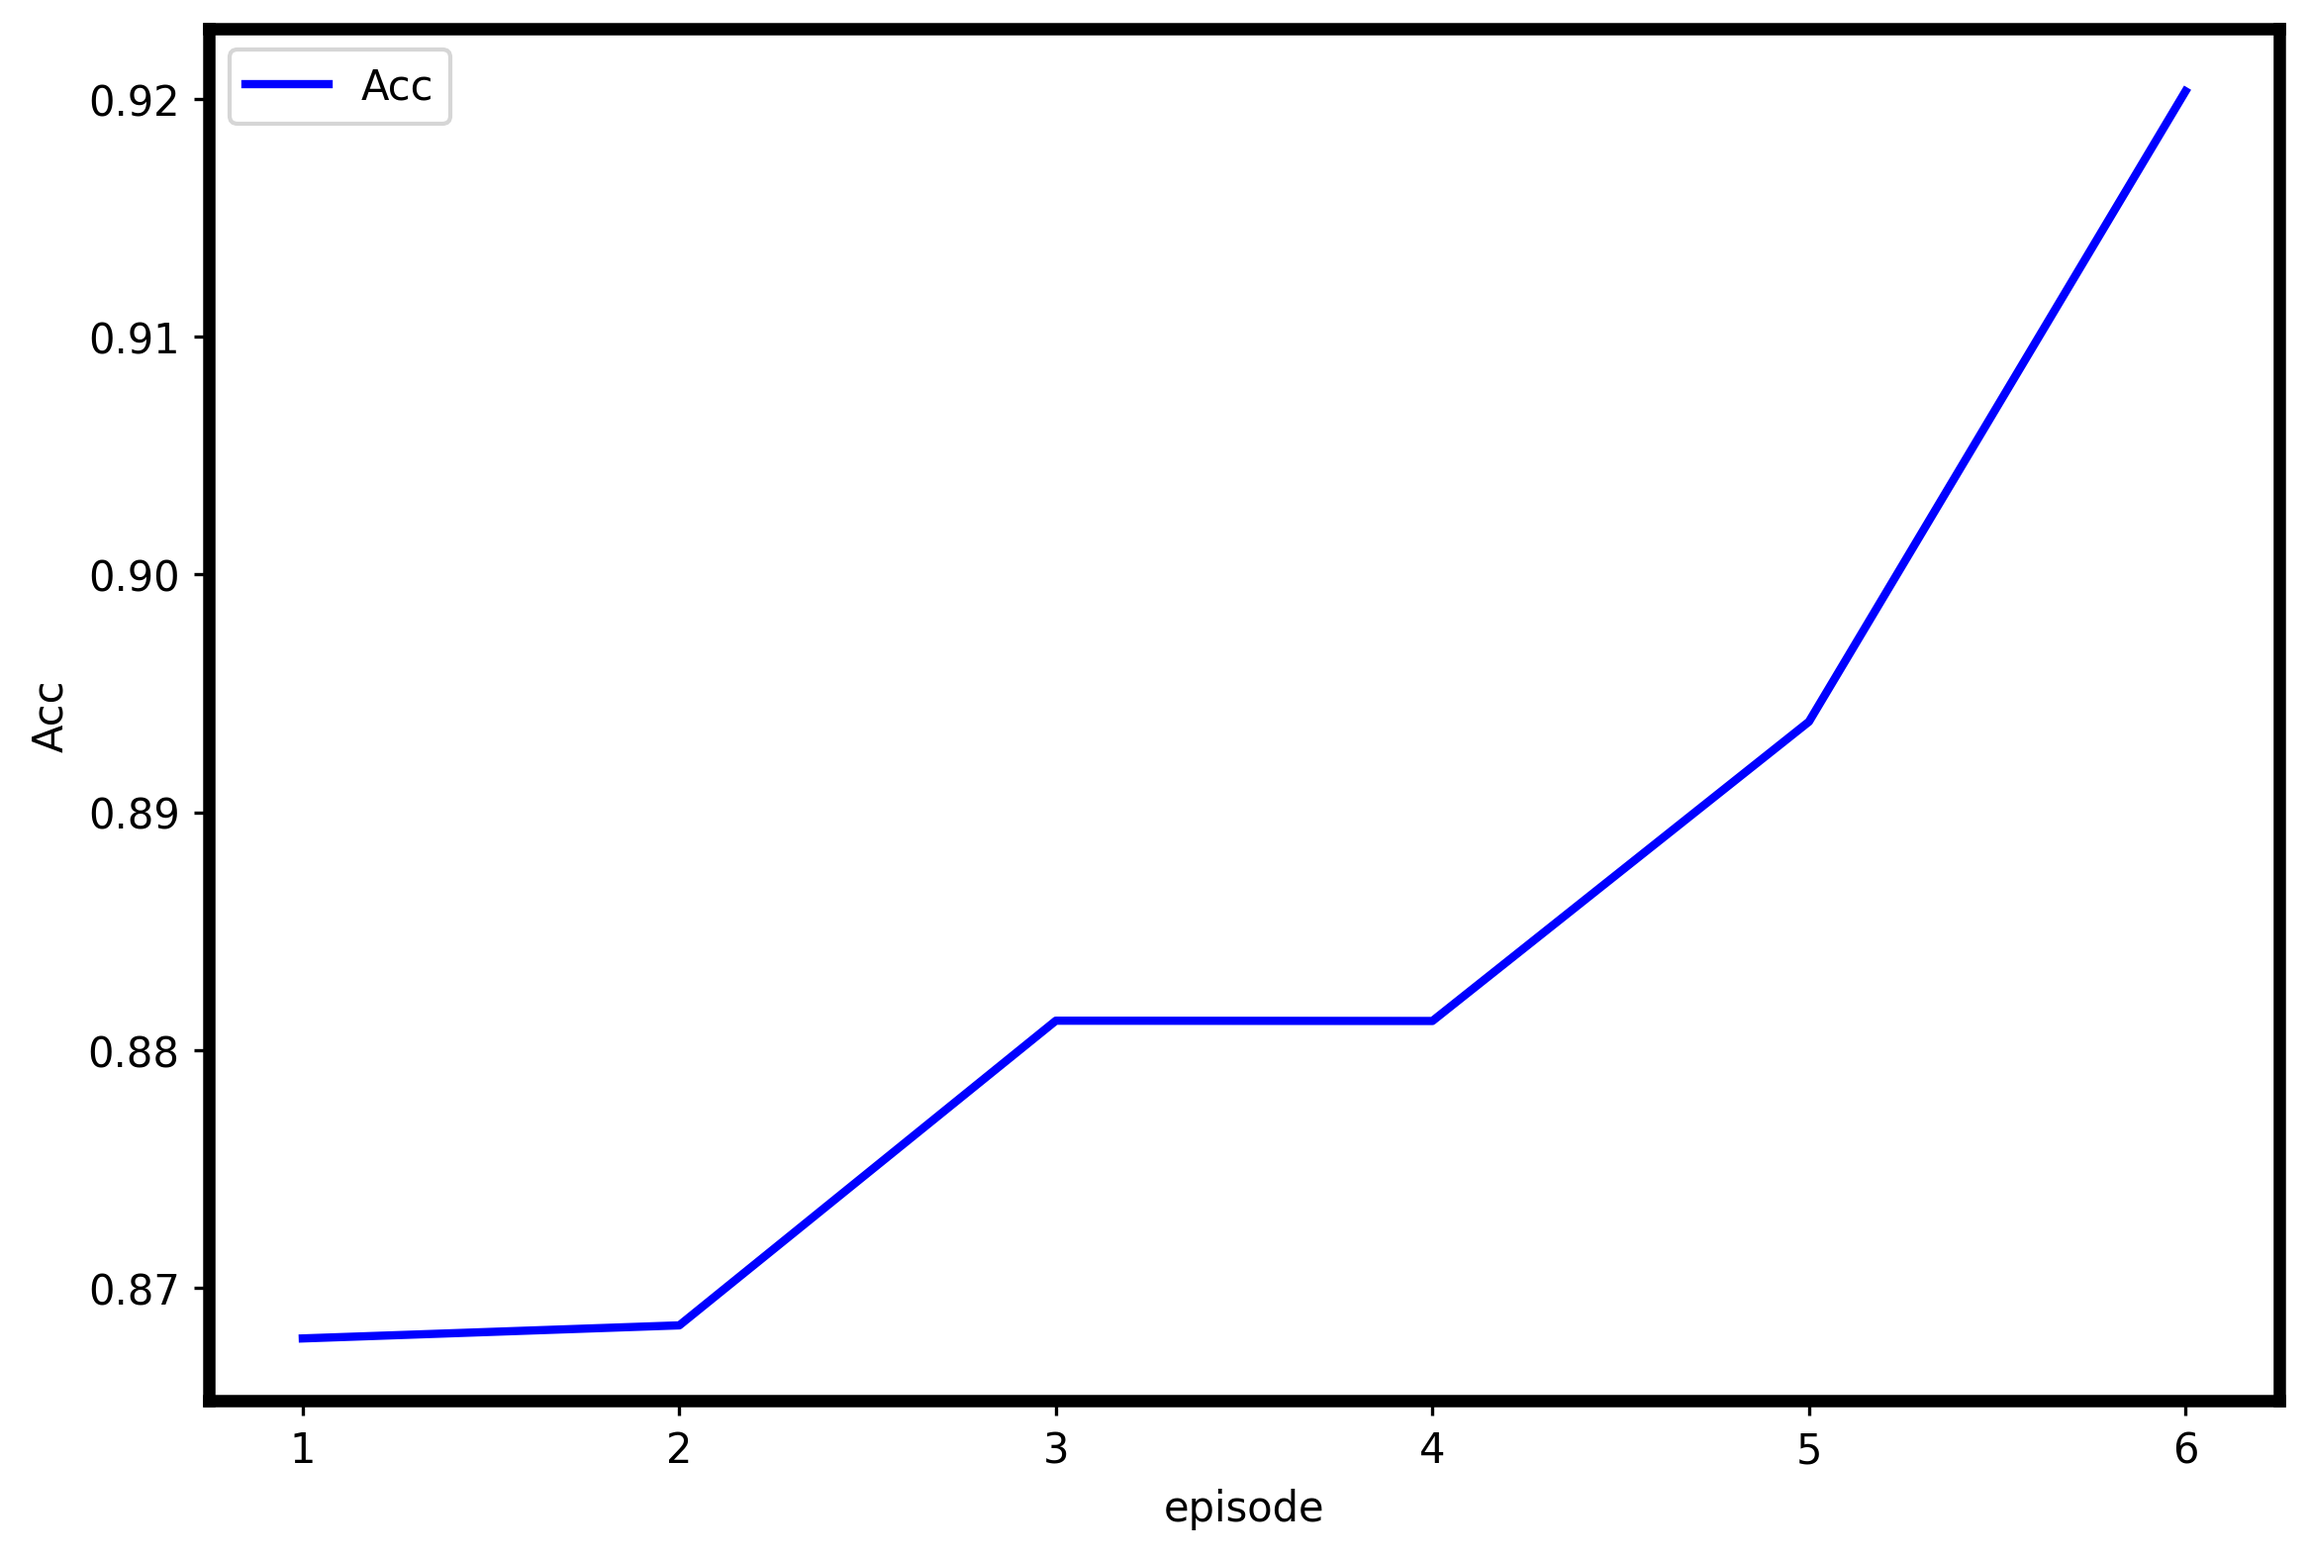
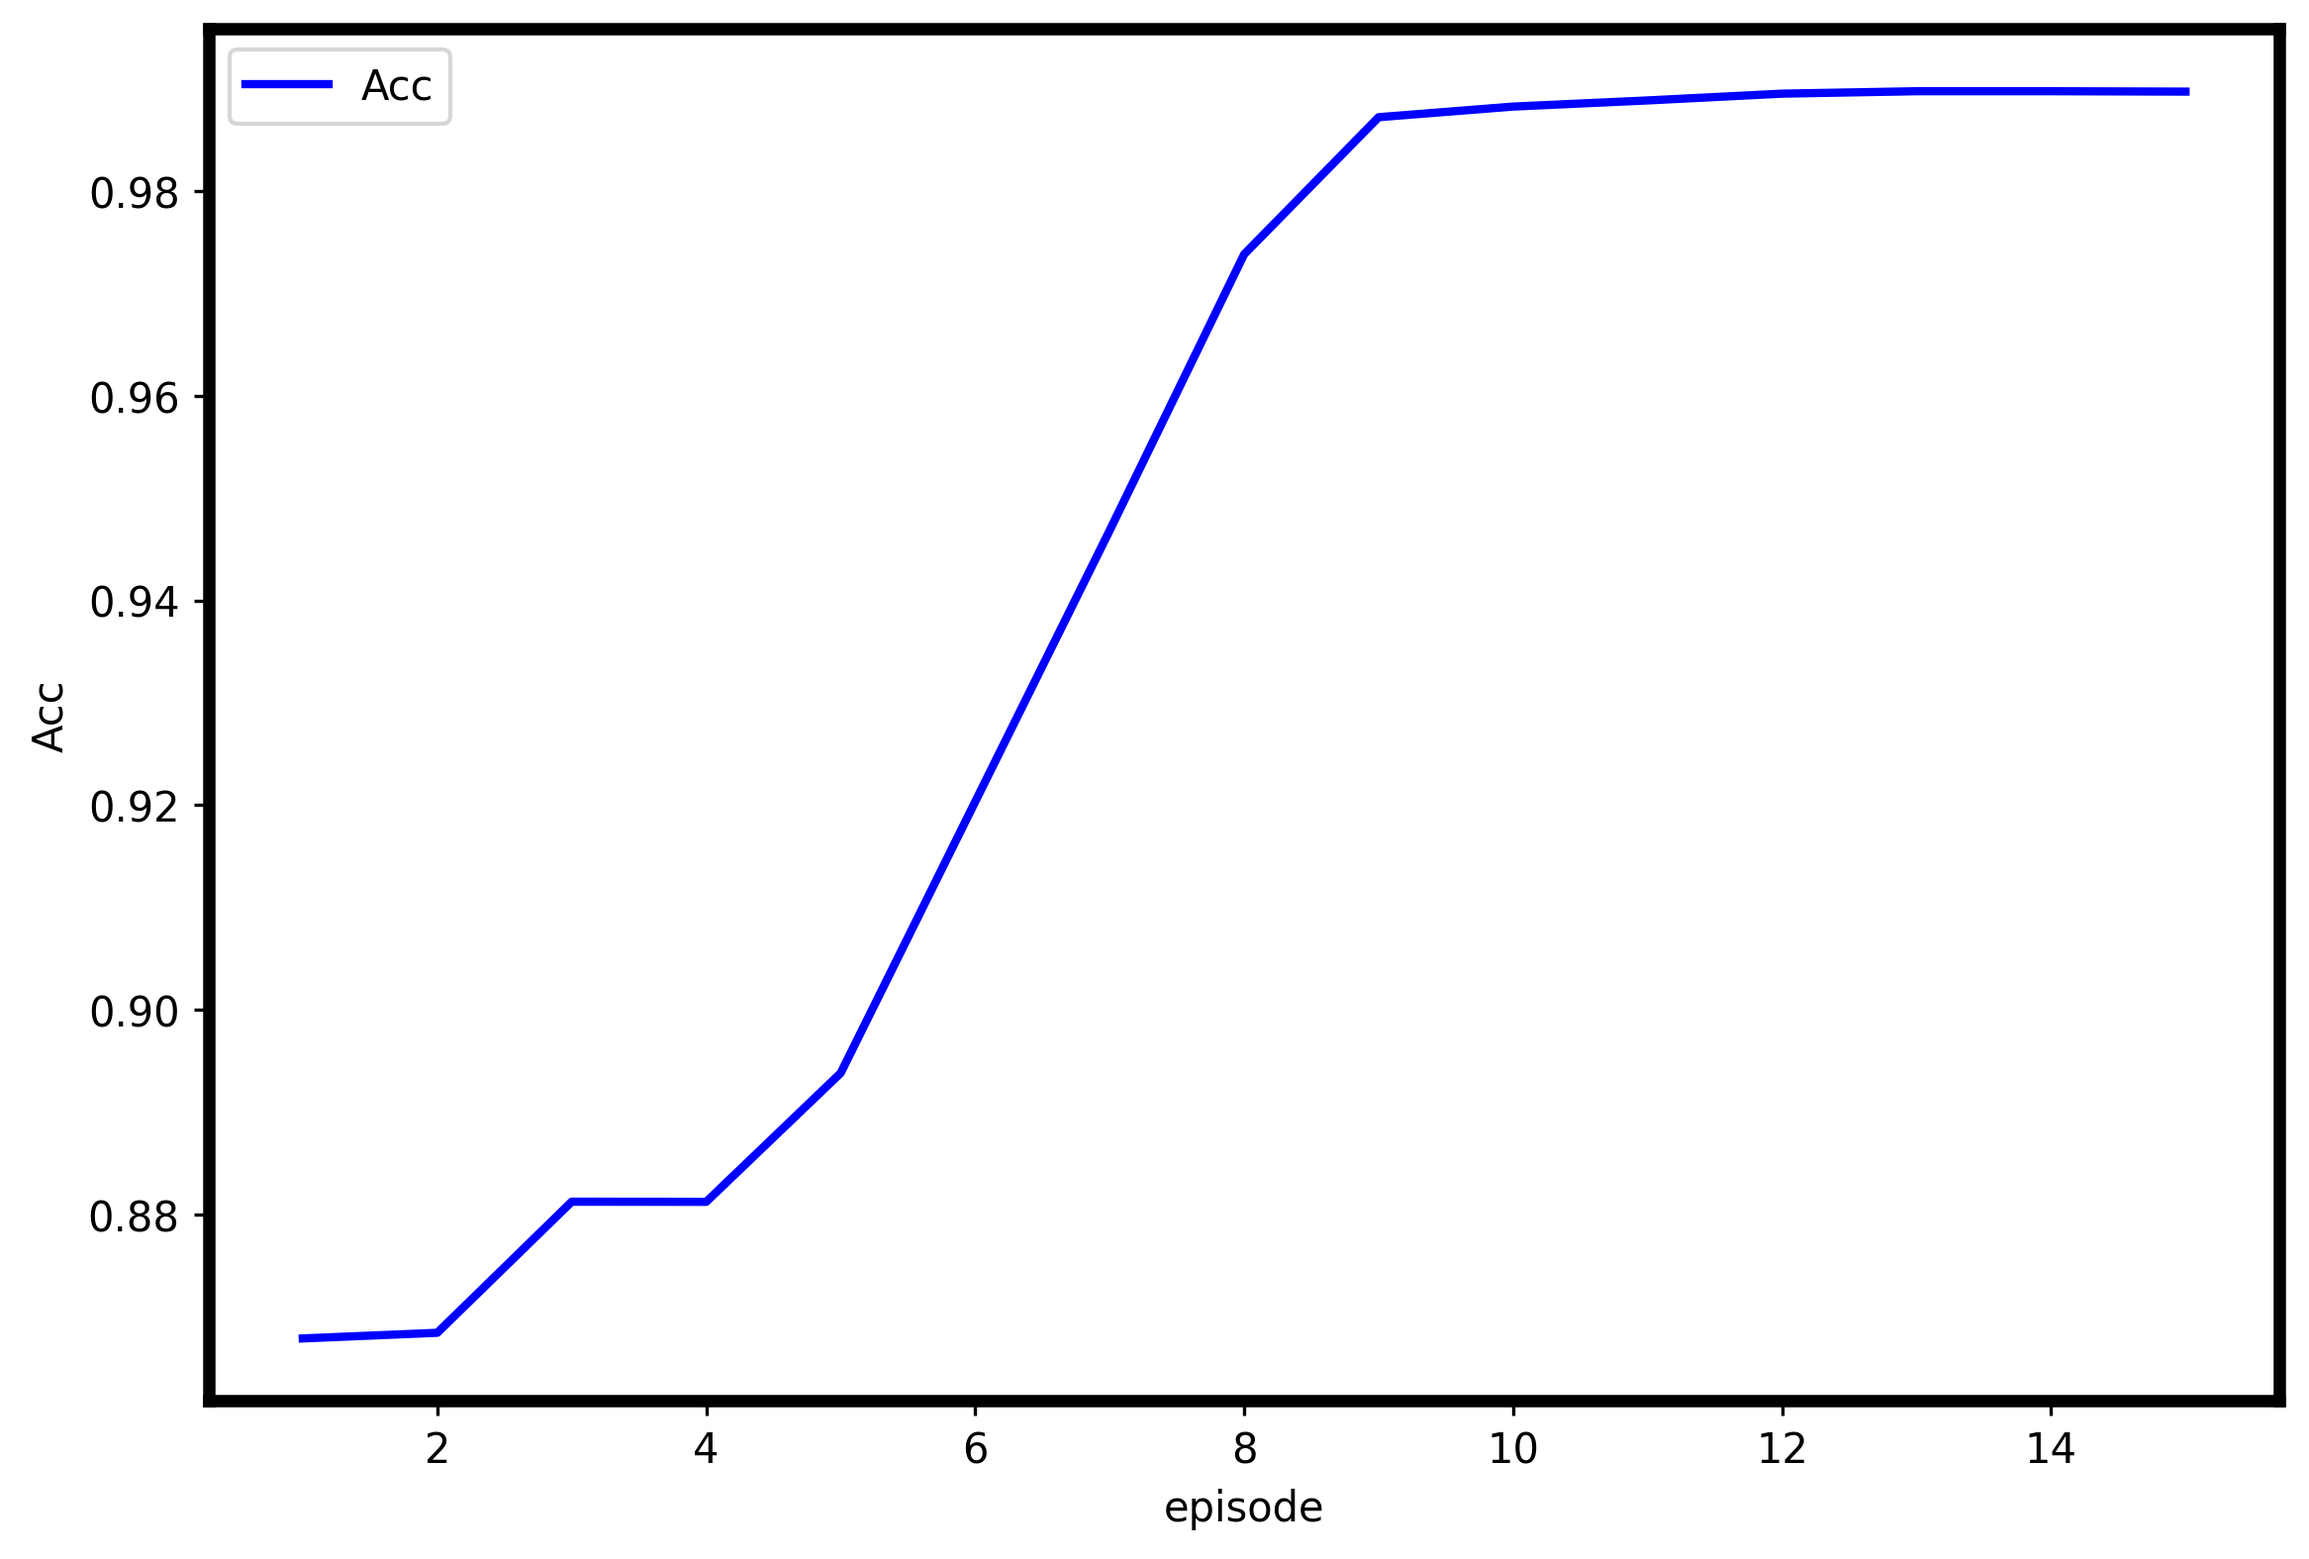
update outcome

diff --git a/readme.md b/readme.md
@@ -29,16 +29,16 @@
 |     客户端学习率      |    1e-4 |
 |     客户端选择策略      | 全部选择 |
 |      模型聚合算法       |  FedAvg  |
-| 通信回合数量 comm_round |    6     |
+| 通信回合数量 comm_round |    15     |
 | 局部训练回合数量 epochs |    10    |
 </div>
 
-实验①结果：
+实验①结果：全局模型的测试精度一直在上升，直到10次通信后基本收敛。
 ![Acc](https://github.com/AkyuC/FedML-FK/blob/client_selection/FedAvg/Server/Acc.png)
 
 ---
 
-对比实验②：添加2个恶意客户端，7个客户端都参与每回合训练。
+对比实验②：添加1个恶意客户端，6个客户端都参与每回合训练。
 
 由于恶意客户端的存在，训练相同回合数之后，模型测试精度应该比实验①差。
 
@@ -46,45 +46,74 @@
 
 |        实验参数         |  参数值  |
 | :---------------------: | :------: |
-|       客户端数量        |    7     |
-|  每回合选择客户端数量   |    7     |
-|     恶意客户端数量      |    2     |
+|       客户端数量        |    6     |
+|  每回合选择客户端数量   |    6     |
+|     恶意客户端数量      |    1     |
 |     正常客户端学习率      |    1e-4     |
 |     恶意客户端学习率      |    1e-3     |
 |     客户端选择策略      | 全部选择 |
 |      模型聚合算法       |  FedAvg  |
-| 通信回合数量 comm_round |    6     |
+| 通信回合数量 comm_round |    15     |
 | 局部训练回合数量 epochs |    10    |
 </div>
 
-实验②结果：
+实验②结果：由于无法识别恶意客户端，导致全局模型的测试精度一直在下降。
 ![Acc_malicious](https://github.com/AkyuC/FedML-FK/blob/client_selection/FedAvg/Server/Acc_malicious.png)
 
 ---
 
-对比实验③：添加2个恶意客户端，7个客户端都参与每回合训练。
+对比实验③：无恶意客户端，5个客户端都参与每回合训练。
 
 按照信誉分数计算公式
 ![](http://latex.codecogs.com/svg.latex?score=(1-\\tau)\\cdot(acc-new_{acc})+\\tau\\cdot(acc-old_{acc}))
 ，评估客户端的数据质量，从而进行客户端选择。
 
-由于客户端选择机制，恶意客户端的影响将被削弱，模型测试精度应该比实验②好。
+由于客户端选择机制，模型测试精度应该比实验①好。
 
 <div align='center'>
 
 |        实验参数         |      参数值      |
 | :---------------------: | :--------------: |
-|       客户端数量        |        7         |
-|  每回合选择客户端数量   |        7         |
-|     恶意客户端数量      |        2         |
+|       客户端数量        |        5         |
+|  每回合选择客户端数量   |        5         |
+|     恶意客户端数量      |        0         |
+|     客户端选择策略      |     全部选择     |
+|     正常客户端学习率      |    1e-4     |
+|      模型聚合算法       | 根据信誉分数加权 |
+|   信誉分数软更新系数 tau |       0.5        |
+| 通信回合数量 comm_round |        15         |
+| 局部训练回合数量 epochs |        10        |
+</div>
+
+实验③结果：全局模型收敛之后，由于局部训练无法再提升模型精度，导致信誉分数评估不再准确，因此全局模型精度略有下降。
+To do: 该方案并未明显体现**模型优化**的效果，考虑接下来尝试**偏向于选择“局部损失值较大”的客户端参与训练**的方案。
+![Acc_CS](https://github.com/AkyuC/FedML-FK/blob/client_selection/FedAvg/Server/Acc_CS.png)
+
+---
+
+对比实验④：添加1个恶意客户端，6个客户端都参与每回合训练。
+
+按照信誉分数计算公式
+![](http://latex.codecogs.com/svg.latex?score=(1-\\tau)\\cdot(acc-new_{acc})+\\tau\\cdot(acc-old_{acc}))
+，评估客户端的数据质量，从而进行客户端选择。
+
+由于客户端选择机制，模型测试精度应该比实验②好。
+
+<div align='center'>
+
+|        实验参数         |      参数值      |
+| :---------------------: | :--------------: |
+|       客户端数量        |        6         |
+|  每回合选择客户端数量   |        6         |
+|     恶意客户端数量      |        1         |
 |     客户端选择策略      |     全部选择     |
 |     正常客户端学习率      |    1e-4     |
 |     恶意客户端学习率      |    1e-3     |
 |      模型聚合算法       | 根据信誉分数加权 |
 |   信誉分数软更新系数 tau |       0.5        |
-| 通信回合数量 comm_round |        6         |
+| 通信回合数量 comm_round |        15         |
 | 局部训练回合数量 epochs |        10        |
 </div>
 
-实验③结果：
-![Acc_CS](https://github.com/AkyuC/FedML-FK/blob/client_selection/FedAvg/Server/Acc_CS.png)
+实验④结果：效果并不理想，可能是由于全局模型聚合了恶意客户端上传的局部更新，导致信誉分数评估失效（无法体现局部模型和聚合后全局模型之间的差距），因此无法有效剔除恶意客户端的影响。
+![Acc_malicious_CS](https://github.com/AkyuC/FedML-FK/blob/client_selection/FedAvg/Server/Acc_malicious_CS.png)
